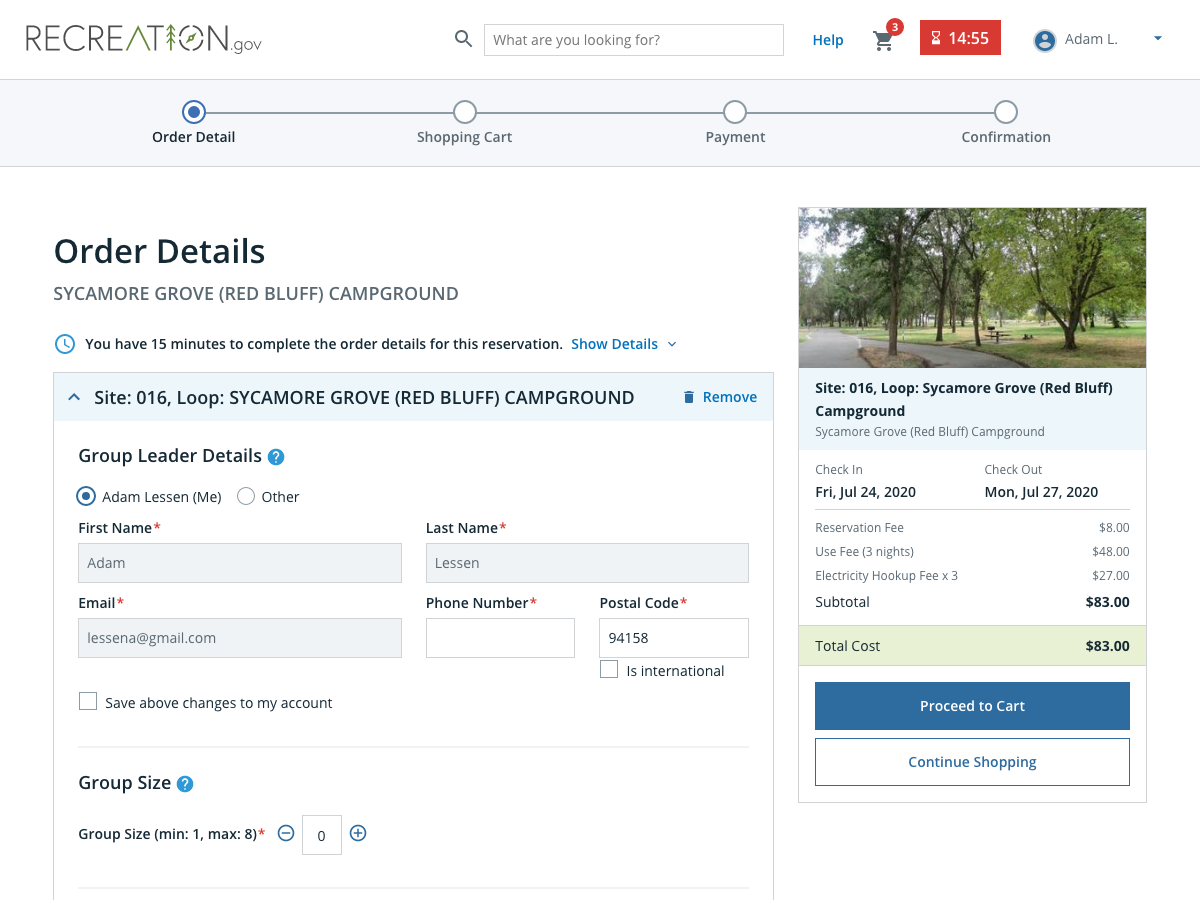
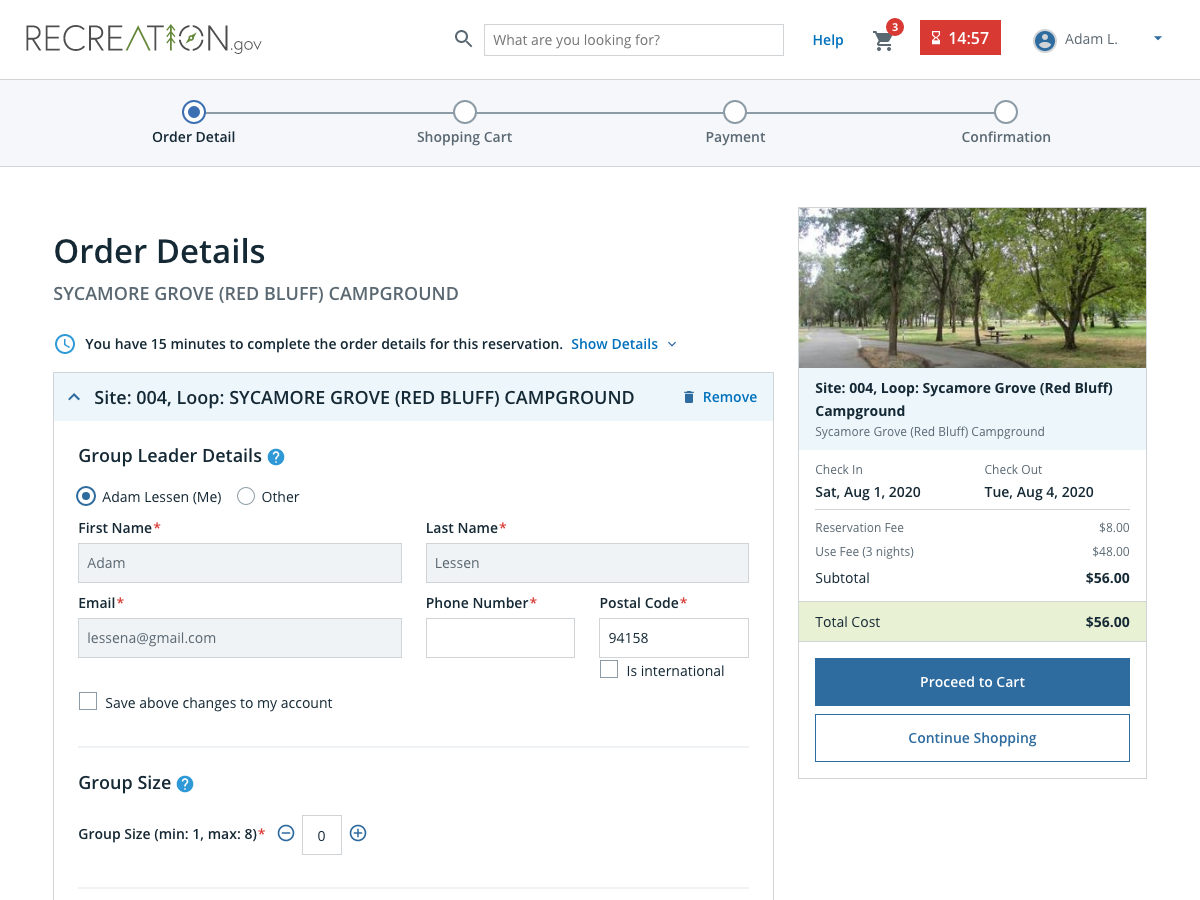
Fix the scroll issue

diff --git a/park-website.js b/park-website.js
@@ -14,7 +14,7 @@ const TO_LOGIN_SELECTOR = '.nav-header-button[aria-label="Log In"]';
 const DATE_PICKER_SELECTOR = '#single-date-picker-1';
 const BOOK_NOW_SELECTOR =
   '.rec-campground-availability-book-now button.sarsa-button-primary';
-const TARGET_DATE = '07/24/2020';
+const TARGET_DATE = '08/01/2020';
 const ALREADY_BOOKED_BUTTON_SELECTOR =
   '.booking-modal button[aria-label="Continue Shopping"]';
 
@@ -30,7 +30,6 @@ const TEST_CAMPGROUND =
 const checkParksSite = async ({id, page}) => {
   const logger = status => console.warn(`Worker ${id} ${status}`);
   logger('is starting');
-  await randomWait();
   await page.goto(TEST_CAMPGROUND);
 
   // START LOGIN
@@ -64,34 +63,37 @@ const checkParksSite = async ({id, page}) => {
   );
 
   // FIND AN AVAILABLE SITE
-  const sites = await page.$$(TABLE_ROW_SELECTOR);
-  const startIndex = Math.floor(Math.random() * sites.length);
-  logger(`starting at site ${startIndex}`);
+  let sites = await page.$$(TABLE_ROW_SELECTOR);
   let availableSite;
-  for (
-    let currentIndex = startIndex, i = 0;
-    i < sites.length;
-    i++, currentIndex === sites.length - 1 ? (currentIndex = 0) : currentIndex++
-  ) {
-    // CHECK IF SITE IS
-    const td1 = await (await (await sites[currentIndex].$(
-      'td:nth-child(3)'
-    )).getProperty('className')).jsonValue();
-    const td2 = await (await (await sites[currentIndex].$(
-      'td:nth-child(4)'
-    )).getProperty('className')).jsonValue();
-    const td3 = await (await (await sites[currentIndex].$(
-      'td:nth-child(5)'
-    )).getProperty('className')).jsonValue();
-    const td4 = await (await (await sites[currentIndex].$(
-      'td:nth-child(6)'
-    )).getProperty('className')).jsonValue();
+  for (let i = 0; i < sites.length; i++) {
+    // CHECK IF SITE IS AVAILABLE
+    const td1 = await (await (await sites[i].$('td:nth-child(3)')).getProperty(
+      'className'
+    )).jsonValue();
+    const td2 = await (await (await sites[i].$('td:nth-child(4)')).getProperty(
+      'className'
+    )).jsonValue();
+    const td3 = await (await (await sites[i].$('td:nth-child(5)')).getProperty(
+      'className'
+    )).jsonValue();
+    const td4 = await (await (await sites[i].$('td:nth-child(6)')).getProperty(
+      'className'
+    )).jsonValue();
     const avail = [td1, td2, td3, td4].every(
       className => className === 'available'
     );
     if (avail) {
-      logger(`found available at index ${currentIndex}`);
-      availableSite = sites[currentIndex];
+      logger(`found available at index ${i}`);
+      availableSite = sites[i];
+      // SCROLL HTML TO THE TOP
+      await page.evaluate(() => {
+        const html = document.querySelector('html');
+        html.scrollHeight = 0;
+      });
+
+      await availableSite.screenshot({
+        path: `screenshots/worker_${id}_avail-site.png`,
+      });
       // SELECT THE SITE FOR 3 NIGHTS
       const start = await availableSite.$('td:nth-child(3)');
       const end = await availableSite.$('td:nth-child(6)');
@@ -99,20 +101,21 @@ const checkParksSite = async ({id, page}) => {
       await end.click();
 
       // NEED TO HANDLE ALREADY SELECTED SITE
-      logger('is going to checkout page');
       await page.click(BOOK_NOW_SELECTOR);
       await timeout(5000);
-      const alreadyBookedButton = await page.$(ALREADY_BOOKED_BUTTON_SELECTOR);
-      if (!alreadyBookedButton) {
+      const url = page.url();
+      console.warn('url', url);
+      if (url.includes('orderdetails')) {
         await page.screenshot({path: `screenshots/worker_${id}_test.png`});
         logger('has finished');
         return;
       }
-
-      alreadyBookedButton.click();
-      // CONTINUE TO SEARCH FOR SITE
+      const alreadyBookedButton = await page.$(ALREADY_BOOKED_BUTTON_SELECTOR);
+      if (alreadyBookedButton) {
+        await alreadyBookedButton.click();
+      }
     }
-    logger(`continuing to index ${currentIndex + 1}`);
+    logger(`continuing to index ${i + 1}`);
   }
 
   // TAKE SOME ACTION IF NOT AVAILABLE
